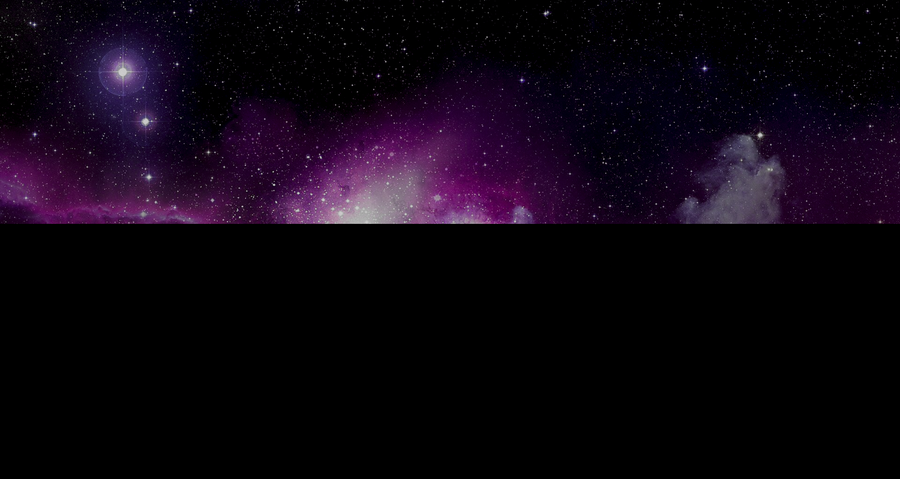
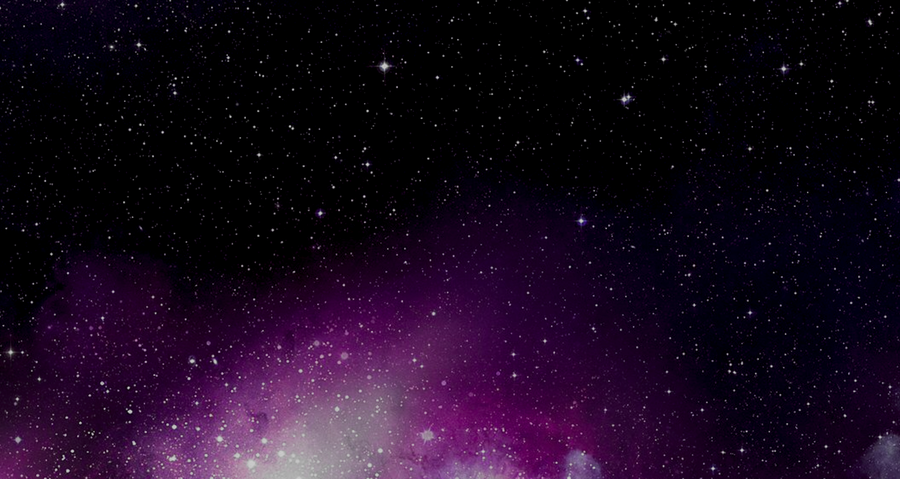
About dialog polish.

diff --git a/ui/uiAbout.py b/ui/uiAbout.py
@@ -14,7 +14,7 @@ from PyQt6.QtWidgets import (
 )
 from PyQt6.QtCore import Qt, QUrl, QSize, QObject, QEvent, QTimer, QPropertyAnimation, QEasingCurve
 from PyQt6.QtGui import QPixmap, QFont, QIcon, QImage, QColor, QPainter
-from PyQt6.QtMultimedia import QMediaPlayer, QAudioOutput
+from PyQt6.QtMultimedia import QMediaPlayer, QAudioOutput, QSoundEffect
 from PyQt6 import uic
 
 from core import Logic, Utils, Version
@@ -844,30 +844,54 @@ if pygame is not None:
             return None
 
     class _Sfx:
-        def __init__(self):
+        """One-shots via Qt so they share the About audio device."""
+
+        _NAMES = {
+            "shoot": "c0.wav",
+            "boomE": "c1.wav",
+            "boomP": "c2.wav",
+            "hit": "c3.wav",
+            "ufo": "c4.wav",
+            "life": "c5.wav",
+            "clear": "c6.wav",
+            "over": "c7.wav",
+        }
+
+        def __init__(self, host=None):
             self.ok = False
             self.sounds = {}
+            self._ufoName = "ufo"
+            parent = host if isinstance(host, QObject) else None
+            try:
+                for key, fn in self._NAMES.items():
+                    path = Logic.resourcePath(f"ui/fx/{fn}")
+                    if not path or not os.path.isfile(path):
+                        continue
+                    fx = QSoundEffect(parent)
+                    fx.setSource(QUrl.fromLocalFile(os.path.abspath(path)))
+                    fx.setVolume(0.8)
+                    self.sounds[key] = fx
+                self.ok = bool(self.sounds)
+            except Exception:
+                self.ok = False
+                self.sounds = {}
+            if not self.ok:
+                self._initMixerFallback()
+
+        def _initMixerFallback(self):
             try:
                 if pygame.mixer.get_init() is None:
-                    pygame.mixer.init(frequency=22050, size=-16, channels=2, buffer=512)
-                names = {
-                    "shoot": "c0.wav",
-                    "boomE": "c1.wav",
-                    "boomP": "c2.wav",
-                    "hit": "c3.wav",
-                    "ufo": "c4.wav",
-                    "life": "c5.wav",
-                    "clear": "c6.wav",
-                    "over": "c7.wav",
-                }
-                for key, fn in names.items():
+                    pygame.mixer.init(frequency=44100, size=-16, channels=2, buffer=512)
+                for key, fn in self._NAMES.items():
                     path = Logic.resourcePath(f"ui/fx/{fn}")
                     if path and os.path.isfile(path):
                         self.sounds[key] = pygame.mixer.Sound(path)
-                self.ok = True
+                self.ok = bool(self.sounds)
             except Exception:
                 self.ok = False
-            self._ufoCh = None
+
+        def _isQtFx(self, snd):
+            return hasattr(snd, "isPlaying")
 
         def play(self, name):
             if not self.ok:
@@ -876,29 +900,25 @@ if pygame is not None:
             if snd is None:
                 return
             try:
-                snd.play()
+                if self._isQtFx(snd):
+                    if snd.isPlaying():
+                        snd.stop()
+                    snd.play()
+                else:
+                    snd.play()
             except Exception:
                 pass
 
         def startUfo(self):
-            if not self.ok:
-                return
-            snd = self.sounds.get("ufo")
+            self.play(self._ufoName)
+
+        def stopUfo(self):
+            snd = self.sounds.get(self._ufoName)
             if snd is None:
                 return
             try:
-                self.stopUfo()
-                self._ufoCh = snd.play()
-            except Exception:
-                self._ufoCh = None
-
-        def stopUfo(self):
-            ch = self._ufoCh
-            self._ufoCh = None
-            if ch is None:
-                return
-            try:
-                ch.stop()
+                if self._isQtFx(snd):
+                    snd.stop()
             except Exception:
                 pass
 
@@ -966,9 +986,32 @@ if pygame is not None:
             scaled = pygame.transform.scale(img, (nw, nh))
         x = (nw - tw) // 2
         y = (nh - th) // 2
-        surf = pygame.Surface((tw, th)).convert()
+        try:
+            surf = pygame.Surface((tw, th)).convert()
+        except Exception:
+            surf = pygame.Surface((tw, th))
+        surf.fill((0, 0, 0))
         surf.blit(scaled, (-x, -y))
         return surf
+
+    def _asOverlay(img):
+        """Alpha copy so the star layer cannot paint an opaque black field."""
+        if img is None:
+            return None
+        try:
+            work = img.convert_alpha()
+        except Exception:
+            work = img
+        try:
+            import numpy as np
+            rgb = pygame.surfarray.pixels3d(work)
+            alpha = pygame.surfarray.pixels_alpha(work)
+            lum = rgb[:, :, 0].astype("uint16") + rgb[:, :, 1] + rgb[:, :, 2]
+            alpha[lum < 40] = 0
+            del rgb, alpha
+        except Exception:
+            pass
+        return work
 
     class _CabinetSh:
         """Original space-defense sessions (formation + dive variants)."""
@@ -1015,12 +1058,19 @@ if pygame is not None:
                 self.bigFont = pygame.font.Font(None, 36)
 
             self.bg = _coverSurf(_loadSurf("b0.png"), W, H)
-            self.stars = _loadSurf("b23.png")
-            if self.stars is not None and self.stars.get_size() != (W, H):
+            if self.bg is not None and self.bg.get_size() != (W, H):
                 try:
-                    self.stars = pygame.transform.scale(self.stars, (W, H))
+                    self.bg = pygame.transform.smoothscale(self.bg, (W, H))
                 except Exception:
-                    pass
+                    self.bg = pygame.transform.scale(self.bg, (W, H))
+            self.stars = _loadSurf("b23.png")
+            if self.stars is not None:
+                if self.stars.get_size() != (W, H):
+                    try:
+                        self.stars = pygame.transform.scale(self.stars, (W, H))
+                    except Exception:
+                        pass
+                self.stars = _asOverlay(self.stars)
             self.playerImg = _fitSurf(_loadSurf("b1.png"), 52, 70)
             self.pBullet = _fitSurf(_loadSurf("b2.png"), 7, 18)
             self.eImg = {
@@ -1048,7 +1098,7 @@ if pygame is not None:
                     frames.append(_fitSurf(_loadSurf(fn), 40, 40))
                 self.expFrames[key] = frames
 
-            self.audio = _Sfx()
+            self.audio = _Sfx(host)
             self.highScore = _readMark(self._markKey)
             self.state = "MENU"
             self.score = 0
@@ -1605,7 +1655,7 @@ if pygame is not None:
             else:
                 self.screen.fill((4, 2, 12))
             if self.stars is not None:
-                y = int(self.starOff)
+                y = int(self.starOff) % H
                 self.screen.blit(self.stars, (0, y - H))
                 self.screen.blit(self.stars, (0, y))
 
